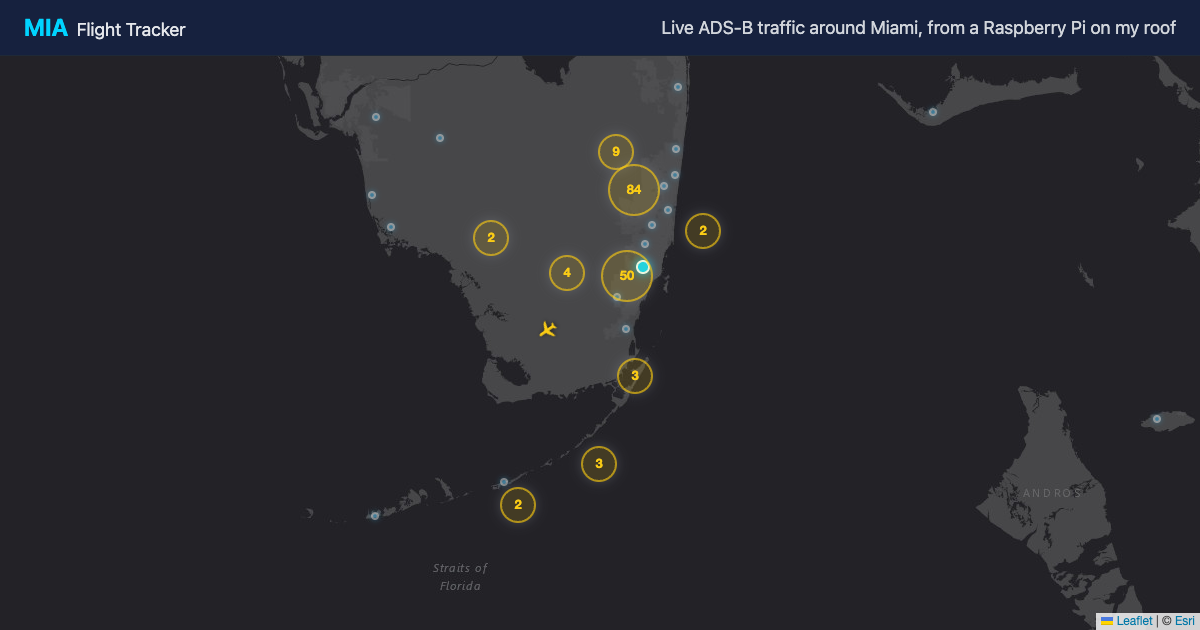
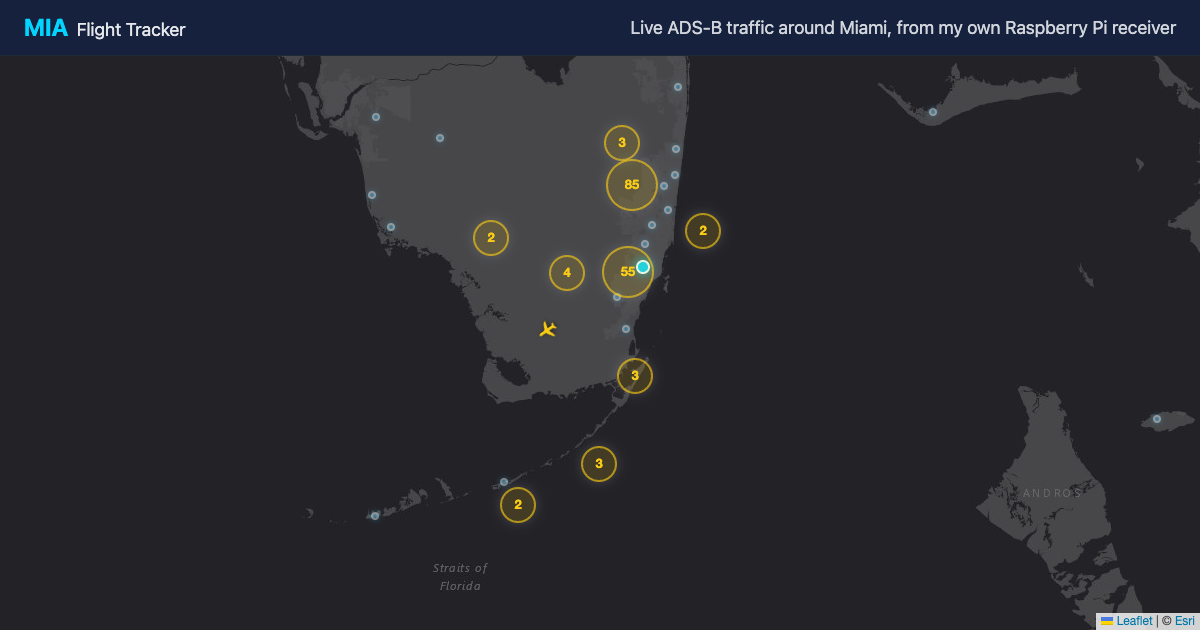
content(web): describe the real hardware; trim Behind the Scenes
- Removes the intro blurb, "The big picture" section and the "Build it
  yourself" guide (and the helpers only they used).
- Hardware section now describes what I actually run: a generic RTL-SDR
  dongle, a Raspberry Pi 3, and an antenna facing out a window (not a
  roof mount or a Pro Stick on a Pi 4), with upgrade notes.
- Removes "roof"/"rooftop" claims from the footer, site description, photo
  captions, README and the share image.

Changed region(s): [[0.5242, 0.0302, 0.9867, 0.0603], [0.4933, 0.2111, 0.555, 0.3619], [0.4933, 0.3921, 0.555, 0.4825]]

diff --git a/apps/web/src/components/info/BehindTheScenes.tsx b/apps/web/src/components/info/BehindTheScenes.tsx
@@ -2,8 +2,8 @@ import { Photo } from "./Photo";
 import { measuredRangeKm, photos } from "@/lib/photos";
 
 /**
- * Static explainer of how live aircraft get onto the map, from the rooftop
- * antenna to the browser. No data is fetched here. Numbers are the
+ * Static explainer of how live aircraft get onto the map, from the antenna
+ * to the browser. No data is fetched here. Numbers are the
  * pipeline's configured values (ingestor config, infra/systemd/env.adsb.example,
  * the snapshot route) or measurements, and the text says which is which.
  * Photos and the measured range are filled in lib/photos.ts.
@@ -36,38 +36,6 @@ function Section({
 /** Inline code that wraps instead of pushing the page sideways on phones. */
 function C({ children }: { children: React.ReactNode }) {
   return <code className="text-mia-sky [overflow-wrap:anywhere]">{children}</code>;
-}
-
-function PipelineStrip() {
-  const stages = [
-    "Antenna",
-    "RTL-SDR",
-    "readsb",
-    "aircraft.json",
-    "ingestor",
-    "Supabase",
-    "CDN",
-    "This map",
-  ];
-  return (
-    <ol
-      aria-label="Data pipeline"
-      className="flex flex-wrap items-center gap-2 rounded-lg border border-gray-800 bg-mia-dark/50 p-4"
-    >
-      {stages.map((stage, i) => (
-        <li key={stage} className="flex items-center gap-2">
-          <span className="rounded bg-mia-panel px-2.5 py-1 text-xs font-medium text-gray-200">
-            {stage}
-          </span>
-          {i < stages.length - 1 && (
-            <span aria-hidden="true" className="text-mia-accent">
-              →
-            </span>
-          )}
-        </li>
-      ))}
-    </ol>
-  );
 }
 
 /** A real table with a header row, scrolling inside its own box on phones. */
@@ -115,90 +83,28 @@ function DataTable({
   );
 }
 
-function CodeBlock({ children, label }: { children: string; label: string }) {
-  return (
-    <pre
-      aria-label={label}
-      tabIndex={0}
-      className="max-w-full overflow-x-auto rounded-md border border-gray-800 bg-mia-dark/70 p-3 text-xs leading-relaxed text-gray-200 focus-visible:outline focus-visible:outline-2 focus-visible:outline-mia-accent"
-    >
-      <code>{children}</code>
-    </pre>
-  );
-}
-
-function BuildStep({
-  n,
-  title,
-  children,
-}: {
-  n: number;
-  title: string;
-  children: React.ReactNode;
-}) {
-  return (
-    <li className="flex gap-3 sm:gap-4">
-      <div
-        aria-hidden="true"
-        className="flex h-7 w-7 flex-none items-center justify-center rounded-full border border-mia-accent/40 bg-mia-accent/10 text-sm font-semibold text-mia-accent"
-      >
-        {n}
-      </div>
-      <div className="min-w-0 flex-1 space-y-2">
-        <h3 className="text-sm font-semibold text-gray-100">{title}</h3>
-        <div className="space-y-2 text-sm leading-relaxed text-gray-300">{children}</div>
-      </div>
-    </li>
-  );
-}
-
 export function BehindTheScenes() {
   return (
     <div className="mx-auto max-w-3xl space-y-6 px-4 py-6 sm:px-6">
-      <header className="space-y-2">
-        <h1 className="text-2xl font-bold text-gray-100">Behind the Scenes</h1>
-        <p className="text-sm text-gray-400">
-          How an antenna on my roof puts live planes on this map, built end to end on a Raspberry
-          Pi. Below: how the pipeline works, the numbers behind it, and how to build your own.
-        </p>
-      </header>
-
-      <Section title="The big picture">
-        <p>
-          Aircraft broadcast their position on <strong>1090&nbsp;MHz</strong>. A rooftop antenna and
-          a Raspberry Pi catch those broadcasts and decode them; a small Python service filters them
-          and stores them; the site serves a cached snapshot to your browser. The live positions
-          come straight out of the sky, not from a paid flight API.
-        </p>
-        <PipelineStrip />
-      </Section>
+      <h1 className="text-2xl font-bold text-gray-100">Behind the Scenes</h1>
 
       <Section step="Step 1" title="The hardware">
-        <p>
-          Reception is mostly about a clean signal path and a high, clear antenna location. Two ways
-          to build it:
-        </p>
+        <p>My setup is deliberately simple, and it works fine:</p>
         <DataTable
-          caption="Parts for a quality build and a starter build"
-          columns={["Part", "Quality build (~$120–160)", "Starter build (~$50–70)"]}
+          caption="The receiver hardware I use"
+          columns={["Part", "What I use", "Notes"]}
           rows={[
             [
-              "Antenna",
-              "Tuned 1090 MHz vertical, roof-mounted",
-              "Basic 1090 MHz antenna, as high as you can",
-            ],
-            [
               "SDR receiver",
-              "FlightAware Pro Stick Plus (filter + amplifier built in)",
-              "Generic RTL-SDR dongle",
+              "Generic RTL-SDR USB dongle",
+              "Works fine. A filtered, amplified stick (e.g. FlightAware Pro Stick Plus) is the upgrade if local interference becomes a problem.",
             ],
             [
-              "1090 MHz bandpass filter",
-              "Not needed (built into the Pro Stick Plus)",
-              "Recommended: only if your SDR lacks one",
+              "Antenna",
+              "1090 MHz antenna facing out a window",
+              "Indoors, so the building blocks part of the sky. Moving it outside and higher is the biggest range upgrade.",
             ],
-            ["Compute", "Raspberry Pi 4", "Raspberry Pi 4"],
-            ["Feedline", "Short run of low-loss coax", "Shortest coax you can manage"],
+            ["Computer", "Raspberry Pi 3", "Runs the decoder and the Python ingestor together."],
           ]}
         />
         <Photo photo={photos.hardware} />
@@ -215,7 +121,10 @@ export function BehindTheScenes() {
               <strong>{measuredRangeKm}&nbsp;km</strong>, from tar1090&apos;s range plot.
             </>
           ) : (
-            <>Rooftop receivers commonly hear aircraft a couple of hundred kilometres out.</>
+            <>
+              Mine sits in a window rather than on the roof, so part of the sky is blocked, but it
+              still hears aircraft well over 100&nbsp;km away.
+            </>
           )}{" "}
           The ingestor only keeps aircraft within <strong>200&nbsp;km</strong> of Miami
           International (KMIA, 25.79°N / 80.29°W), so the map stays about local traffic.
@@ -353,124 +262,6 @@ export function BehindTheScenes() {
         </p>
         <Photo photo={photos.liveMap} />
       </Section>
-
-      <section className="rounded-lg border border-mia-accent/30 bg-mia-panel p-4 sm:p-6">
-        <div className="mb-4 space-y-2">
-          <h2 className="text-lg font-semibold text-gray-100">Build it yourself</h2>
-          <p className="text-sm leading-relaxed text-gray-400">
-            The path from parts to a working feed. Install scripts and package names change, so
-            check each project&apos;s current instructions as you go.
-          </p>
-        </div>
-
-        <ol className="space-y-6">
-          <BuildStep n={1} title="Gather the hardware">
-            <p>
-              Start from the parts table above. A shorter coax run and a higher, clearer antenna
-              matter more than almost anything else. Skip the separate bandpass filter if your SDR
-              already has one, like the FlightAware Pro Stick Plus.
-            </p>
-          </BuildStep>
-
-          <BuildStep n={2} title="Flash and prep the Raspberry Pi">
-            <p>
-              Write Raspberry Pi OS Lite to a microSD card with Raspberry Pi Imager. In its
-              settings, create your user, enable SSH and set Wi-Fi so the Pi works headless from the
-              first boot. Current images have no default <C>pi</C> user, so log in with the one you
-              created:
-            </p>
-            <CodeBlock label="Connect and update the Pi">{`ssh <your-username>@<your-hostname>.local
-sudo apt update && sudo apt full-upgrade -y
-sudo reboot`}</CodeBlock>
-          </BuildStep>
-
-          <BuildStep n={3} title="Install a decoder and a local map">
-            <p>
-              Two common routes; either one works as the data source. With{" "}
-              <strong>readsb + tar1090</strong> (wiedehopf&apos;s install scripts):
-            </p>
-            <CodeBlock label="Install readsb and tar1090">{`sudo bash -c "$(wget -nv -O - https://github.com/wiedehopf/adsb-scripts/raw/master/readsb-install.sh)"
-sudo bash -c "$(wget -nv -O - https://github.com/wiedehopf/tar1090/raw/master/install.sh)"`}</CodeBlock>
-            <p>
-              Or flash FlightAware&apos;s <strong>PiAware</strong> image, which bundles{" "}
-              <C>dump1090-fa</C> and its SkyAware map and also feeds FlightAware.
-            </p>
-          </BuildStep>
-
-          <BuildStep n={4} title="Connect the SDR and confirm reception">
-            <p>
-              Plug in the SDR, connect the antenna, and open the local map. Aircraft should appear
-              within a minute or two. Where the map and the JSON live depends on the route:
-            </p>
-            <DataTable
-              caption="Local map and aircraft.json locations"
-              columns={["Setup", "Map in a browser", "aircraft.json"]}
-              rows={[
-                [
-                  "readsb + tar1090",
-                  <C key="m">http://&lt;pi-ip&gt;/tar1090</C>,
-                  <C key="j">http://&lt;pi-ip&gt;/tar1090/data/aircraft.json</C>,
-                ],
-                [
-                  "PiAware (dump1090-fa)",
-                  <C key="m">http://&lt;pi-ip&gt;:8080</C>,
-                  <C key="j">http://&lt;pi-ip&gt;:8080/data/aircraft.json</C>,
-                ],
-              ]}
-            />
-            <p>
-              The ingestor defaults to <C>http://127.0.0.1:8080/data/aircraft.json</C>, the PiAware
-              layout. On a readsb + tar1090 Pi, point <C>ADSB_JSON_URL</C> at the tar1090 path
-              instead.
-            </p>
-          </BuildStep>
-
-          <BuildStep n={5} title="Tune for range">
-            <p>
-              Mount the antenna as high and as clear of obstructions as you safely can. Adjust the
-              SDR gain until the message rate and range peak without the receiver overloading;
-              tar1090 shows both, and its range plot shows where buildings or trees block you.
-            </p>
-          </BuildStep>
-
-          <BuildStep n={6} title="Point the ingestor at your feed">
-            <p>
-              Run this project&apos;s Python ingestor on the Pi and give it an env file. systemd
-              reads <C>EnvironmentFile</C> lines as <C>KEY=value</C>, and a trailing{" "}
-              <C># comment</C> would become part of the value, so comments go on their own line:
-            </p>
-            <CodeBlock label="Ingestor environment file">{`# Read ADS-B from the local decoder (PiAware path; see the table above)
-FLIGHT_PROVIDER=adsb1090
-ADSB_JSON_URL=http://127.0.0.1:8080/data/aircraft.json
-# Poll every 15 seconds
-POLL_INTERVAL_SECONDS=15
-# Keep aircraft within 200 km of MIA
-ADSB_MAX_RANGE_KM=200
-# Drop aircraft with no position in the last 60 s
-ADSB_MAX_SEEN_SECONDS=60
-# Skip rewriting aircraft that moved less than 150 m
-ADSB_MIN_MOVE_METERS=150
-# Your Supabase project URL
-SUPABASE_URL=https://<project-ref>.supabase.co
-# Service-role key: write access, Pi only. Never commit it or ship it to a browser.
-SUPABASE_SERVICE_ROLE_KEY=<service-role-key>
-# Optional: a healthchecks.io URL that alerts you when pings stop
-HEARTBEAT_PING_URL=`}</CodeBlock>
-            <p>
-              Keep the file readable only by the service user (<C>chmod 600</C>).
-            </p>
-          </BuildStep>
-
-          <BuildStep n={7} title="Run it as a service and verify">
-            <p>
-              Install the systemd unit from <C>infra/systemd/</C> so the ingestor starts on boot and
-              restarts on failure, then watch it with <C>journalctl -u mia-ingestor-adsb -f</C>.
-              Each poll logs how many aircraft it received and wrote. Within a refresh or two your
-              traffic shows up on the map, and the header switches to &ldquo;Receiver online&rdquo;.
-            </p>
-          </BuildStep>
-        </ol>
-      </section>
 
       <Section title="Benchmarks at a glance">
         <DataTable

diff --git a/apps/web/src/components/info/BehindTheScenes.test.tsx b/apps/web/src/components/info/BehindTheScenes.test.tsx
@@ -23,7 +23,15 @@ describe("BehindTheScenes", () => {
     for (const table of screen.getAllByRole("table")) {
       expect(within(table).getAllByRole("columnheader").length).toBeGreaterThanOrEqual(3);
     }
-    expect(screen.getByRole("columnheader", { name: /Quality build/i })).toBeInTheDocument();
+  });
+
+  it("describes the actual hardware: generic RTL-SDR, Pi 3, antenna in a window", () => {
+    const { container } = render(<BehindTheScenes />);
+    const text = container.textContent ?? "";
+    expect(text).toMatch(/Generic RTL-SDR/);
+    expect(text).toMatch(/Raspberry Pi 3/);
+    expect(text).toMatch(/window/);
+    expect(text).not.toMatch(/roof-mounted|Rooftop|Raspberry Pi 4/);
   });
 
   it("states the corrected pipeline facts", () => {
@@ -35,16 +43,12 @@ describe("BehindTheScenes", () => {
     expect(text).not.toMatch(/60–80%/);
     // Egress claim is per CDN region, not global.
     expect(text).toMatch(/same CDN region/);
-    expect(text).not.toMatch(/ssh pi@raspberrypi/);
     expect(text).toMatch(/ICAO hex address/);
   });
 
-  it("keeps env-file comments on their own lines", () => {
-    render(<BehindTheScenes />);
-    const env = screen.getByLabelText(/Ingestor environment file/i).textContent ?? "";
-    expect(env).toMatch(/ADSB_JSON_URL/);
-    for (const line of env.split("\n")) {
-      if (/^[A-Z_]+=/.test(line)) expect(line).not.toMatch(/#/);
-    }
+  it("has no intro blurb, big-picture section or build guide", () => {
+    const { container } = render(<BehindTheScenes />);
+    const text = container.textContent ?? "";
+    expect(text).not.toMatch(/The big picture|Build it yourself|puts live planes on this map/);
   });
 });

diff --git a/apps/web/src/lib/photos.ts b/apps/web/src/lib/photos.ts
@@ -15,11 +15,11 @@ export interface PhotoSlot {
 }
 
 export const photos = {
-  /** Step 1: the roof antenna, and the Pi + SDR in its case. */
+  /** Step 1: the antenna in the window, and the Pi + RTL-SDR. */
   hardware: {
     src: "",
-    alt: "The 1090 MHz antenna on the roof, and the Raspberry Pi with its SDR in a case",
-    caption: "The antenna on my roof, and the Pi + SDR that decode it.",
+    alt: "The 1090 MHz antenna facing out a window, and the Raspberry Pi 3 with its RTL-SDR dongle",
+    caption: "The antenna in my window, and the Pi + RTL-SDR that decode it.",
     width: 1600,
     height: 1200,
   },

diff --git a/apps/web/src/lib/site.ts b/apps/web/src/lib/site.ts
@@ -8,7 +8,7 @@ export const site = {
   name: "MIA Flight Tracker",
   url: "https://track-flights-web.vercel.app",
   description:
-    "Live aircraft around Miami International, decoded from ADS-B by a Raspberry Pi receiver on my roof.",
+    "Live aircraft around Miami International, decoded from ADS-B by my own Raspberry Pi receiver.",
   author: "Raul Mendy",
   repoUrl: "https://github.com/mendyraul/TrackFlights",
   githubUrl: "https://github.com/mendyraul",

diff --git a/apps/web/src/components/layout/Footer.tsx b/apps/web/src/components/layout/Footer.tsx
@@ -18,7 +18,7 @@ export function Footer() {
           <a href={site.githubUrl} className={`${link} underline`}>
             {site.author}
           </a>
-          : the rooftop receiver, the ingestor, and this site.
+          : the receiver, the ingestor, and this site.
         </p>
         <nav aria-label="Project links" className="flex flex-wrap gap-x-4 gap-y-1">
           {links.map((l) => (

diff --git a/README.md b/README.md
@@ -1,7 +1,7 @@
 # MIA Flight Tracker
 
-Live aircraft around Miami International, decoded from 1090 MHz ADS-B by a Raspberry Pi
-receiver on my roof. A Python ingestor filters what the antenna hears and writes it to
+Live aircraft around Miami International, decoded from 1090 MHz ADS-B by my own Raspberry Pi
+receiver (a generic RTL-SDR and an antenna facing out a window). A Python ingestor filters what the antenna hears and writes it to
 Postgres (Supabase); a Next.js site on Vercel serves it through a CDN-cached API to a
 Leaflet map, a sortable aircraft board and an analytics page.
 
@@ -32,7 +32,7 @@ flowchart LR
 
 ## Tech stack
 
-- **Receiver:** RTL-SDR + 1090 MHz antenna, readsb or dump1090-fa on a Raspberry Pi 4
+- **Receiver:** generic RTL-SDR dongle + 1090 MHz antenna in a window, decoder on a Raspberry Pi 3
 - **Ingestor:** Python 3.11, httpx, Supabase client, structlog; systemd service on the Pi
 - **Database:** Supabase Postgres with row-level security, pg_cron jobs and SQL rollups
 - **Web:** Next.js 15 (App Router), React 18, TypeScript, Tailwind, Leaflet, Recharts
